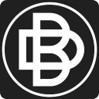
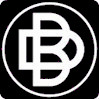
add

diff --git a/_includes/header.html b/_includes/header.html
@@ -32,8 +32,8 @@
     
     <div class="container">
         <span id="site-header-brand">
-            <a href="https://github.com/withmakers"><img src="https://raw.githubusercontent.com/withmakers/withmakers.github.io/master/_img/withmakers.jpg" style="max-width:30%;max-height:30%;"></img></a>
-            <a href="https://github.com/jacobgreen4477"><img src="https://raw.githubusercontent.com/withmakers/withmakers.github.io/master/_img/deepbro.jpg" style="max-width:30%;max-height:30%;"></img></a>
+            <a href="https://github.com/withmakers"><img src="https://raw.githubusercontent.com/withmakers/withmakers.github.io/master/_img/withmakers.jpg" style="max-width:20%;max-height:20%;"></img></a>
+            <a href="https://github.com/jacobgreen4477"><img src="https://raw.githubusercontent.com/withmakers/withmakers.github.io/master/_img/deepbro.jpg" style="max-width:20%;max-height:20%;"></img></a>
         </span>
 
         <nav class="site-header-nav" role="navigation">
